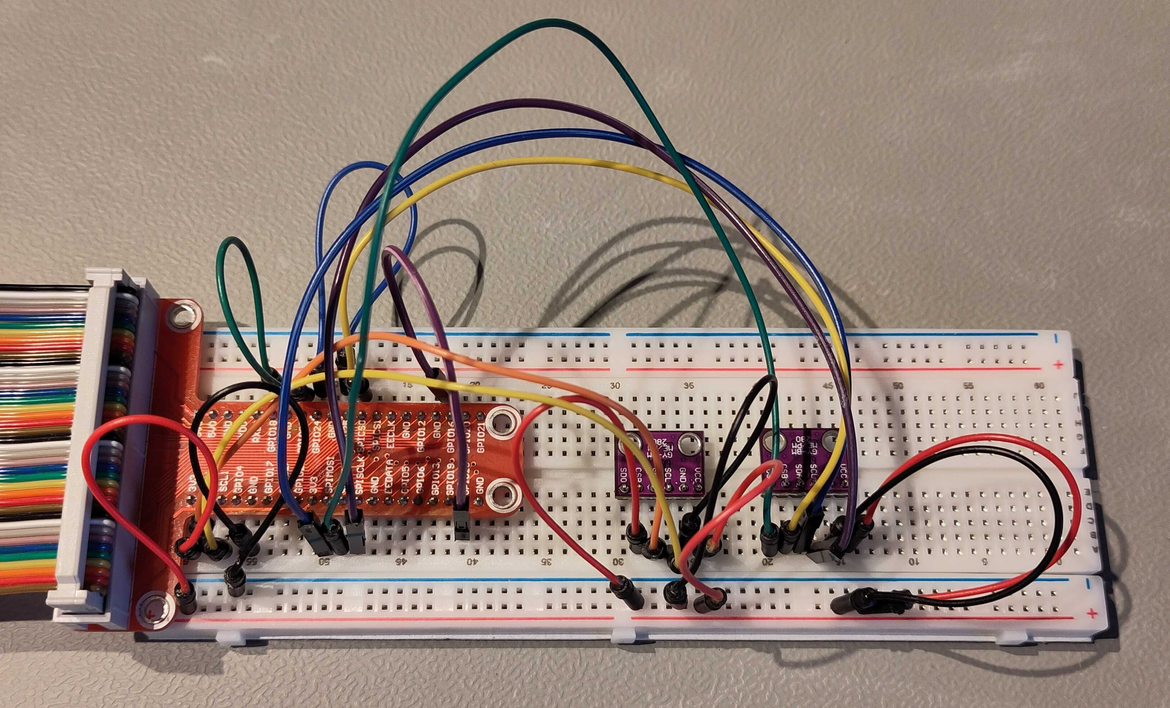
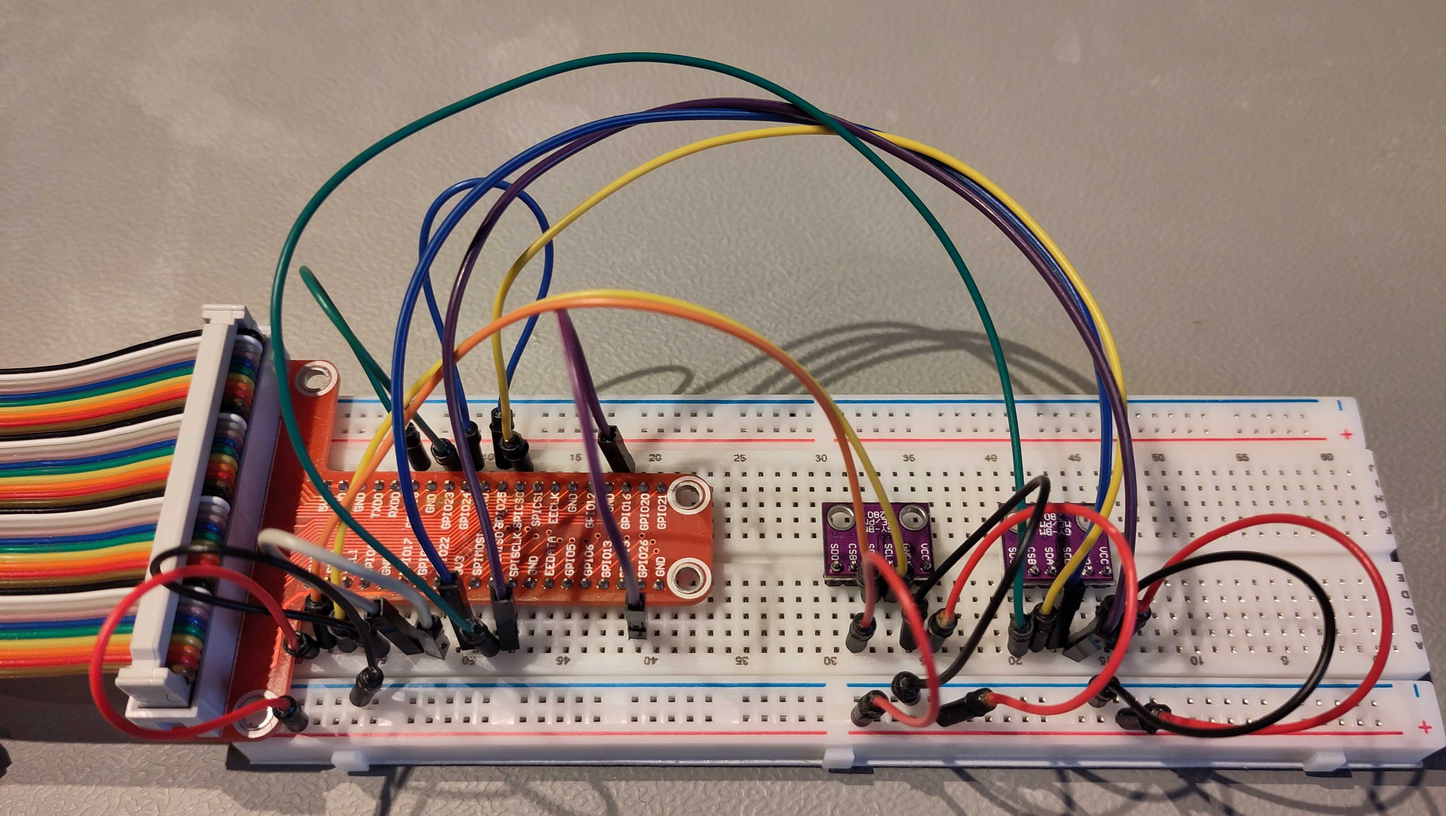
Updating of test wiring

diff --git a/pi4j-test/README.md b/pi4j-test/README.md
@@ -17,11 +17,17 @@ Usage parms:
 
 Two BMP280 (air pressure and temperature) or BME280 (air pressure, temperature, and humidity) are used as they are available as PCBs with both I2C and SPI interfaces. Some other wiring is added to connect GPIOs to each other, to test different types of communication. 
 
+<!-- Full image URL as this is used as source for a page on pi4j.com -->
 ![Wiring diagram](https://github.com/Pi4J/pi4j/raw/develop/pi4j-test/wiring/wiring-diagram.png)
 
 Depending on the type of BMP-sensors, the actual wiring may look a bit different. Use the tables below for correct connections.
 
+<!-- Full image URL as this is used as source for a page on pi4j.com -->
 ![Example setup](https://github.com/Pi4J/pi4j/raw/develop/pi4j-test/wiring/test-setup.jpg)
+
+![Example setup](https://github.com/Pi4J/pi4j/raw/develop/pi4j-test/wiring/test-setup-side-1.jpg)
+
+![Example setup](https://github.com/Pi4J/pi4j/raw/develop/pi4j-test/wiring/test-setup-side-2.jpg)
 
 Used for the wiring diagram:
 
